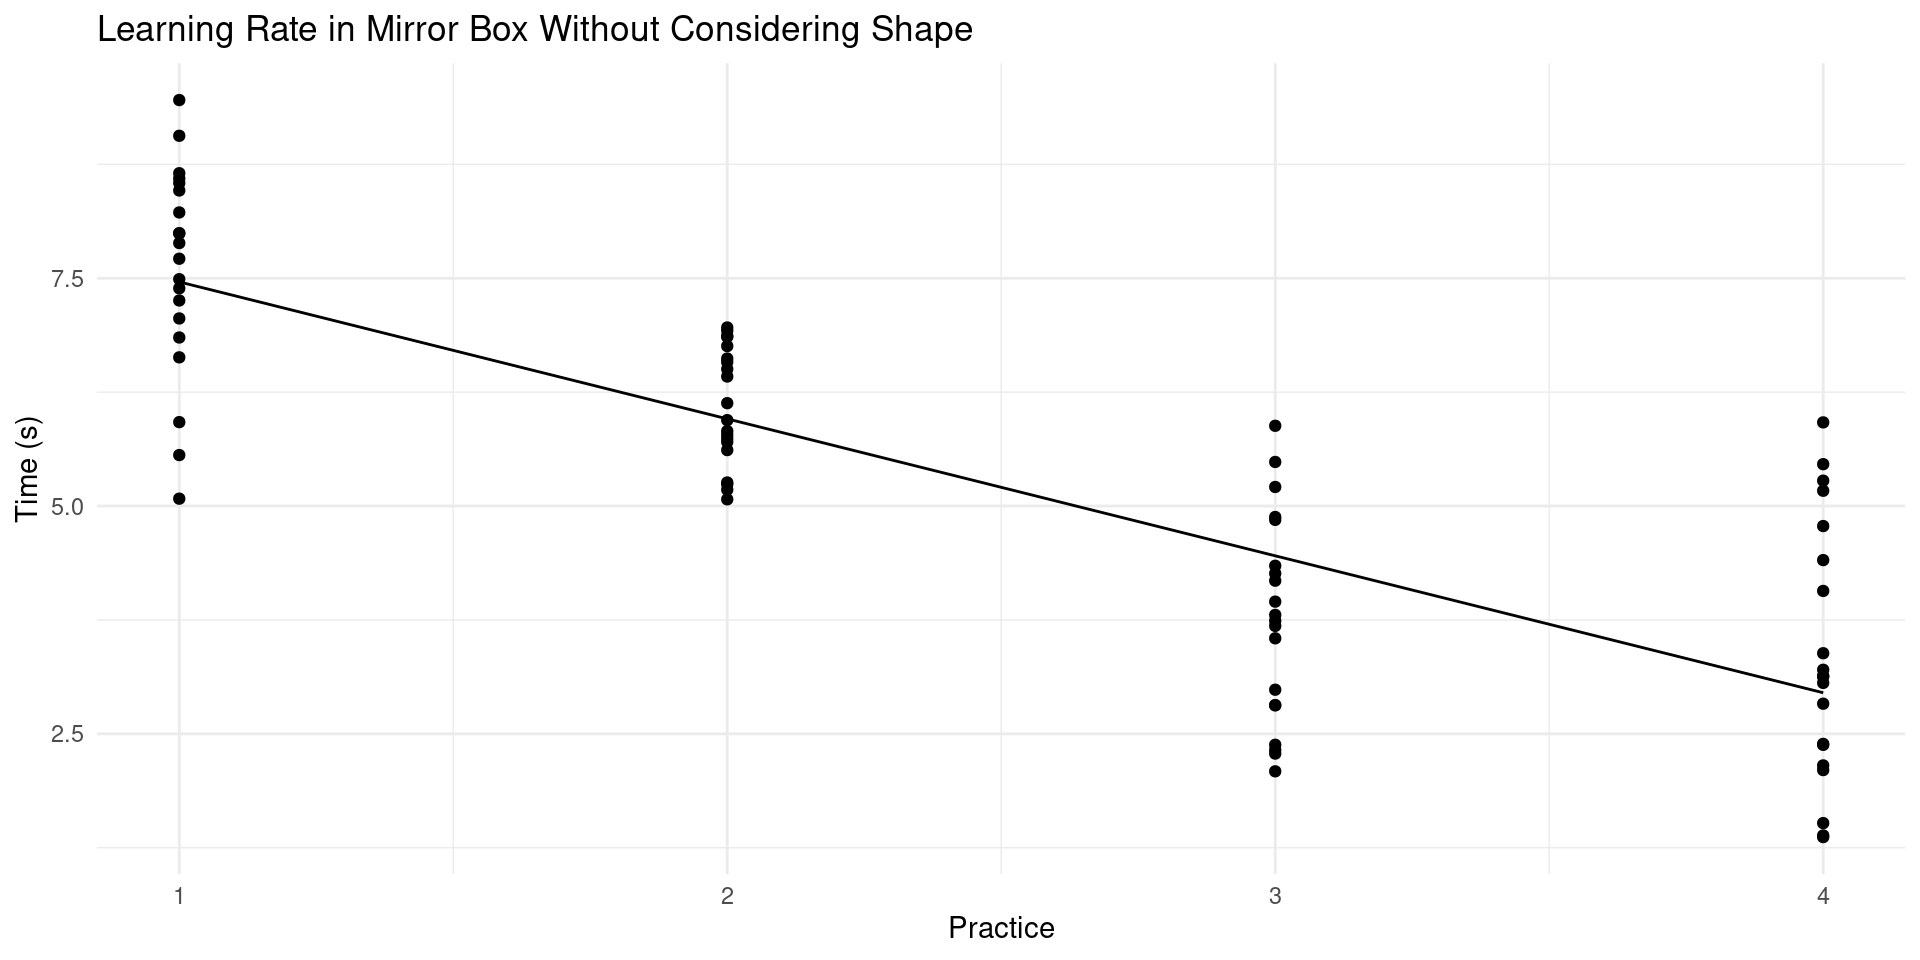
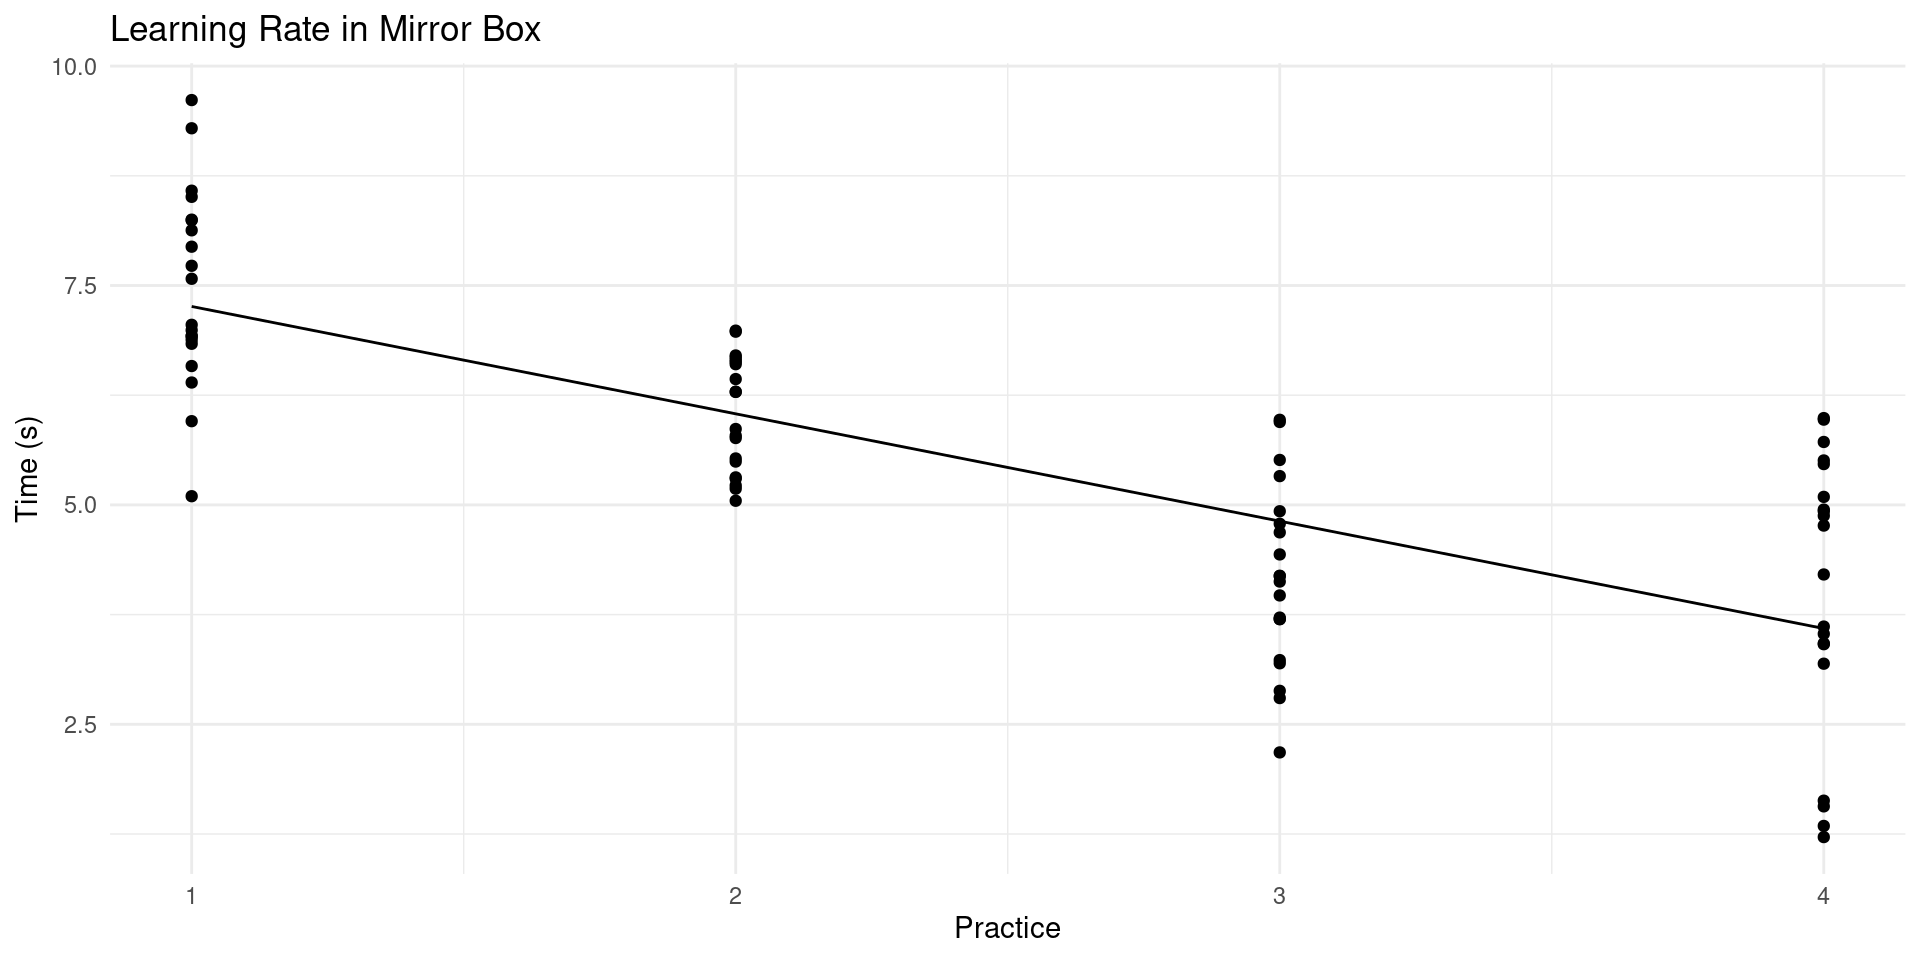
Some work

diff --git a/Nog_event06122023.html b/Nog_event06122023.html
@@ -330,6 +330,40 @@
 </div>
 
 </section>
+<section id="fine-motor-plasticity" class="title-slide slide level1 center">
+<h1>Fine Motor Plasticity</h1>
+<ul>
+<li>Plasticity is the ability for the brain to learn new tasks</li>
+</ul>
+</section>
+
+<section id="fine-motor-plasticity-1" class="title-slide slide level1 center">
+<h1>Fine Motor Plasticity</h1>
+<ul>
+<li><p>Plasticity is the ability for the brain to learn new tasks</p></li>
+<li><p>Famous examples include stroke patients relearning skills after consistent physical therapy</p></li>
+</ul>
+</section>
+
+<section id="fine-motor-plasticity-2" class="title-slide slide level1 center">
+<h1>Fine Motor Plasticity</h1>
+<ul>
+<li><p>Plasticity is the ability for the brain to learn new tasks</p></li>
+<li><p>Famous examples include stroke patients relearning skills after consistent physical therapy Can we observe plasticity on Fine Motor Tasks?</p></li>
+<li><p>Question: Can we use the Mirror Box to observe plasticity in the healthy brain?</p></li>
+</ul>
+</section>
+
+<section>
+<section id="fine-motor-plasticity-3" class="title-slide slide level1 center">
+<h1>Fine Motor Plasticity</h1>
+<ul>
+<li><p>Plasticity is the ability for the brain to learn new tasks</p></li>
+<li><p>Famous examples include stroke patients relearning skills after consistent physical therapy Can we observe plasticity on Fine Motor Tasks?</p></li>
+<li><p>Question: Can we use the Mirror Box to observe plasticity in the healthy brain performing a fine motor task?</p></li>
+<li><p>Null Hypothesis: If we can not observe plasticity with the mirror box, we should see the same average performance every time we try to draw shapes in the Mirror Box</p></li>
+</ul>
+</section>
 <section id="mirror-box-results" class="slide level2">
 <h2>Mirror Box Results</h2>
 
@@ -340,7 +374,7 @@
 <img data-src="Nog_event06122023_files/figure-revealjs/graph1-1.png" width="960" class="r-stretch"></section>
 <section id="mirror-box-results-statistics" class="slide level2">
 <h2>Mirror Box Results Statistics</h2>
-<p>Time = -1.5029795*Position + 8.9626408</p>
+<p>Time = -1.223107*Position + 8.48387</p>
 <div class="cell">
 <div class="cell-output cell-output-stdout">
 <pre><code>
@@ -348,25 +382,25 @@ Call:
 lm(formula = `Time (s)` ~ Practice, data = mirror_df)
 
 Residuals:
-     Min       1Q   Median       3Q      Max 
--2.37883 -0.72935 -0.04181  0.77174  2.96741 
+    Min      1Q  Median      3Q     Max 
+-2.6349 -0.7279 -0.1488  0.8848  2.3976 
 
 Coefficients:
             Estimate Std. Error t value Pr(&gt;|t|)    
-(Intercept)   8.9626     0.3236   27.70   &lt;2e-16 ***
-Practice     -1.5030     0.1182  -12.72   &lt;2e-16 ***
+(Intercept)   8.4839     0.3299   25.72  &lt; 2e-16 ***
+Practice     -1.2231     0.1205  -10.15 6.38e-16 ***
 ---
 Signif. codes:  0 '***' 0.001 '**' 0.01 '*' 0.05 '.' 0.1 ' ' 1
 
-Residual standard error: 1.182 on 78 degrees of freedom
-Multiple R-squared:  0.6747,    Adjusted R-squared:  0.6705 
-F-statistic: 161.8 on 1 and 78 DF,  p-value: &lt; 2.2e-16</code></pre>
+Residual standard error: 1.205 on 78 degrees of freedom
+Multiple R-squared:  0.5693,    Adjusted R-squared:  0.5638 
+F-statistic: 103.1 on 1 and 78 DF,  p-value: 6.384e-16</code></pre>
 </div>
 </div>
 </section>
 <section id="mirror-box-results-statistics-1" class="slide level2">
 <h2>Mirror Box Results Statistics</h2>
-<p>Time = -1.5029795*Position + 8.9626408</p>
+<p>Time = -1.223107*Position + 8.48387</p>
 
 <img data-src="Nog_event06122023_files/figure-revealjs/graph2-1.png" width="960" class="r-stretch"></section>
 <section id="mirror-box-results-statistics-2" class="slide level2">
@@ -375,7 +409,7 @@ F-statistic: 161.8 on 1 and 78 DF,  p-value: &lt; 2.2e-16</code></pre>
 <div class="cell">
 
 </div>
-<p>Time = -1.5029795*Position + 9.1805758 + Shape</p>
+<p>Time = -1.223107*Position + 8.3669043 + Shape</p>
 <div class="cell">
 <div class="cell-output cell-output-stdout">
 <pre><code>
@@ -385,39 +419,39 @@ lm(formula = `Time (s)` ~ Practice + Shape.1 + Shape.2 + Shape.3,
 
 Residuals:
      Min       1Q   Median       3Q      Max 
--2.06609 -0.79902  0.06475  0.72538  2.64511 
+-2.54162 -0.74739  0.00654  0.79400  2.49705 
 
 Coefficients:
             Estimate Std. Error t value Pr(&gt;|t|)    
-(Intercept)   9.1806     0.3892  23.588   &lt;2e-16 ***
-Practice     -1.5030     0.1160 -12.953   &lt;2e-16 ***
-Shape.1TRUE   0.1806     0.3669   0.492    0.624    
-Shape.2TRUE  -0.5171     0.3669  -1.409    0.163    
-Shape.3TRUE  -0.5352     0.3669  -1.459    0.149    
+(Intercept)  8.36690    0.39304  21.288  &lt; 2e-16 ***
+Practice    -1.22311    0.11718 -10.438  2.9e-16 ***
+Shape.1TRUE -0.08008    0.37056  -0.216    0.829    
+Shape.2TRUE -0.17739    0.37056  -0.479    0.634    
+Shape.3TRUE  0.72534    0.37056   1.957    0.054 .  
 ---
 Signif. codes:  0 '***' 0.001 '**' 0.01 '*' 0.05 '.' 0.1 ' ' 1
 
-Residual standard error: 1.16 on 75 degrees of freedom
-Multiple R-squared:  0.6984,    Adjusted R-squared:  0.6823 
-F-statistic: 43.41 on 4 and 75 DF,  p-value: &lt; 2.2e-16</code></pre>
+Residual standard error: 1.172 on 75 degrees of freedom
+Multiple R-squared:  0.6081,    Adjusted R-squared:  0.5872 
+F-statistic: 29.09 on 4 and 75 DF,  p-value: 1.323e-14</code></pre>
 </div>
 </div>
 </section>
 <section id="mirror-box-results-statistics-3" class="slide level2">
 <h2>Mirror Box Results Statistics</h2>
 <h3 id="accounting-for-the-shape-being-drawn-1">Accounting for the shape being drawn</h3>
-<p>Time = -1.5029795*Position + 9.1805758 + Shape</p>
+<p>Time = -1.223107*Position + 8.3669043 + Shape</p>
 
 <img data-src="Nog_event06122023_files/figure-revealjs/graph3-1.png" width="960" class="r-stretch"></section>
 <section id="mirror-box-results-statistics-4" class="slide level2">
 <h2>Mirror Box Results Statistics</h2>
 <h3 id="accounting-for-the-shape-being-drawn-2">Accounting for the shape being drawn</h3>
-<p>Time = -1.5029795*Position + 9.1805758 + Shape</p>
+<p>Time = -1.223107*Position + 8.3669043 + Shape</p>
 
 <img data-src="Nog_event06122023_files/figure-revealjs/graph4-1.png" width="960" class="r-stretch"><div class="footer footer-default">
 
 </div>
-</section>
+</section></section>
     </div>
   </div>
 
